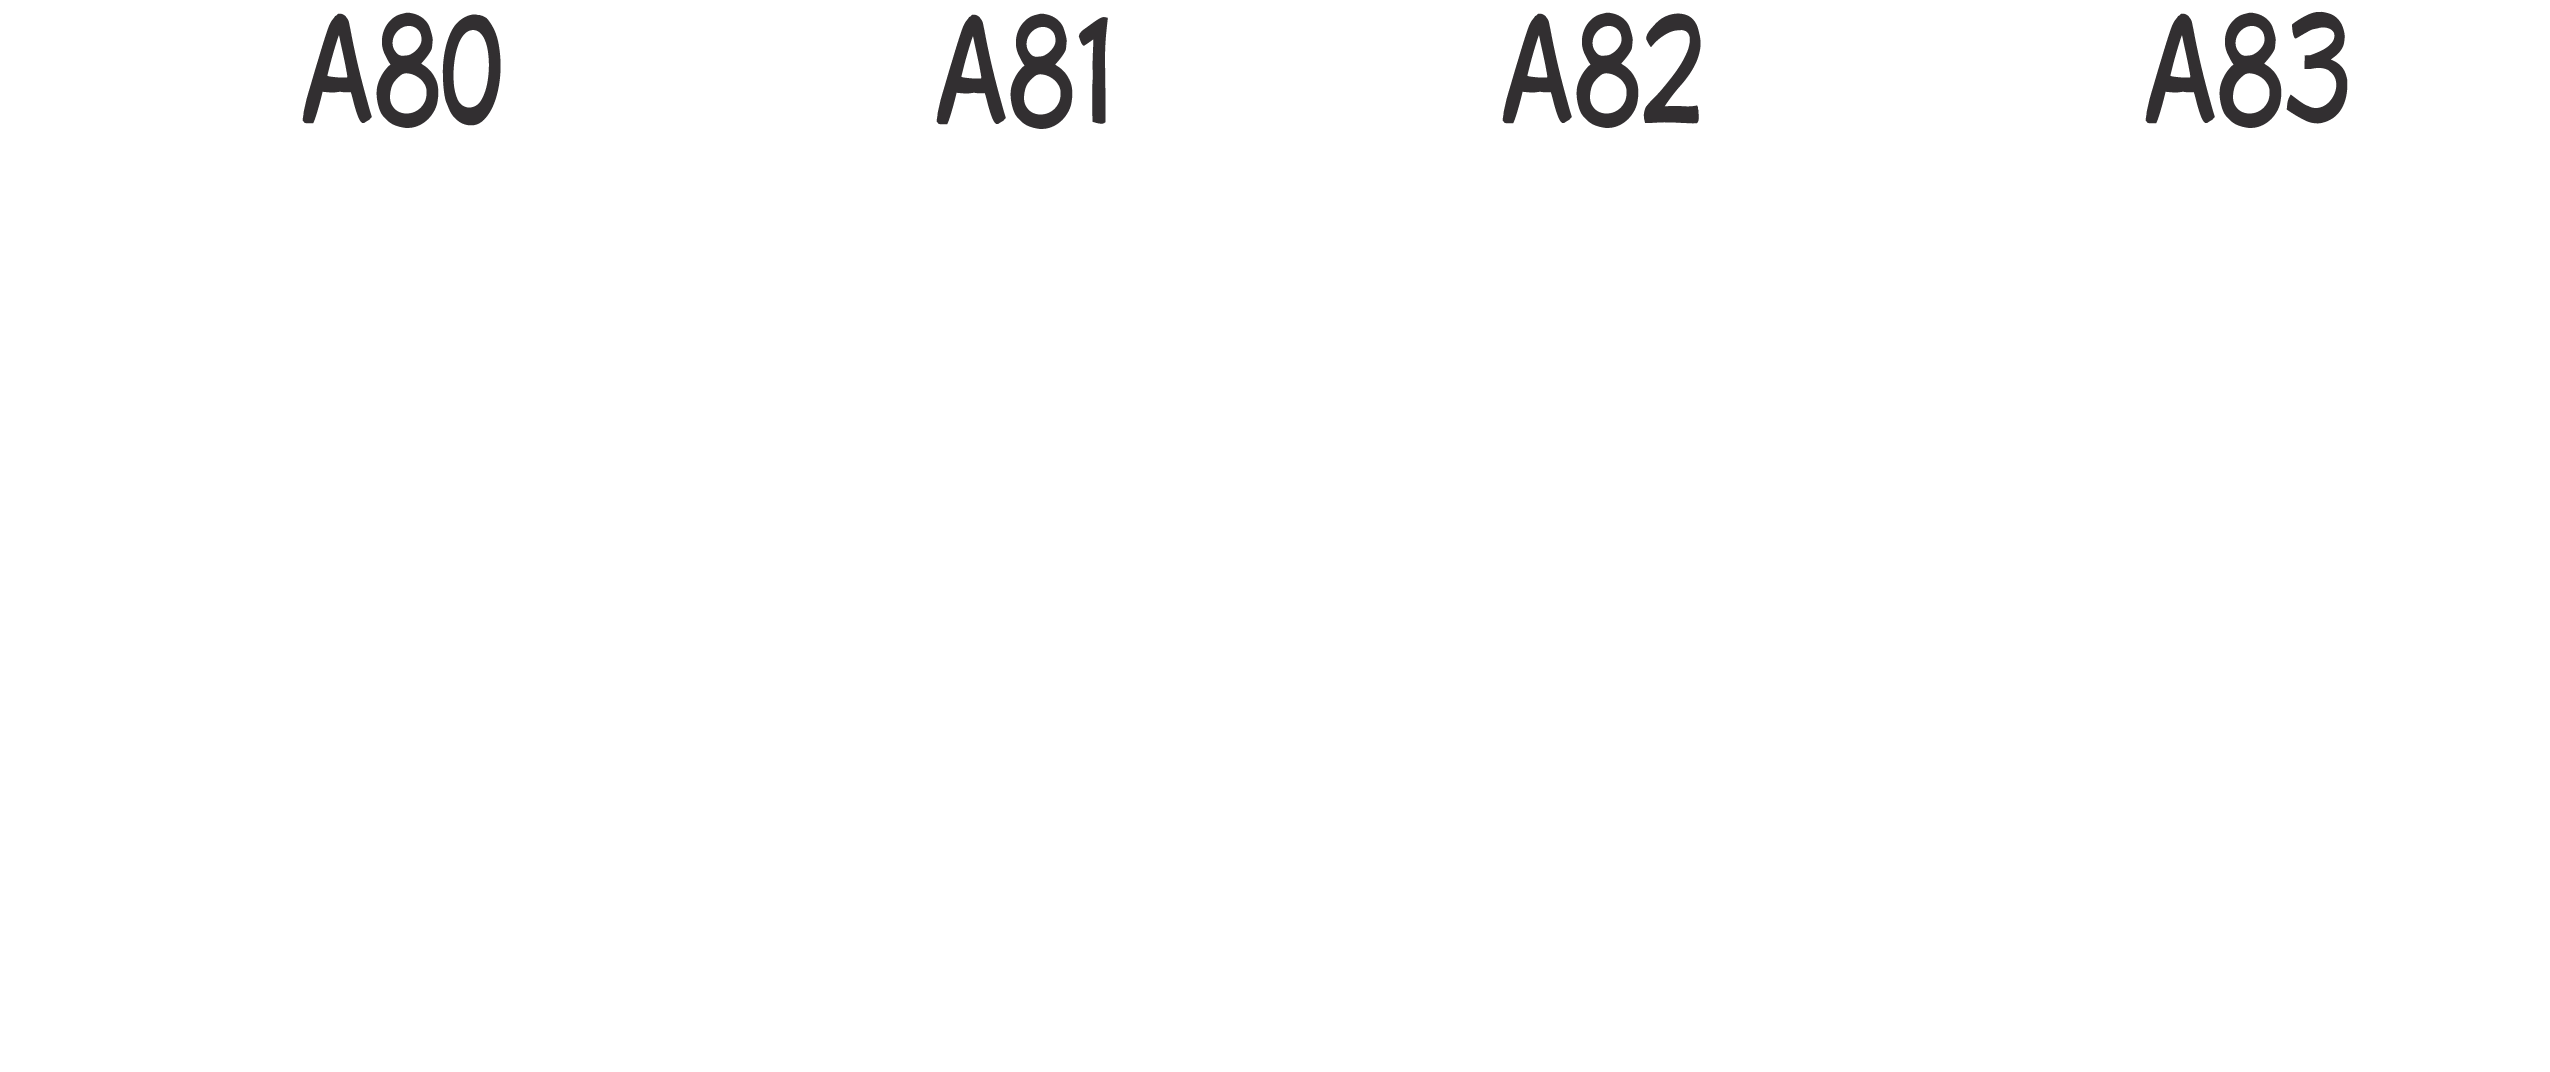
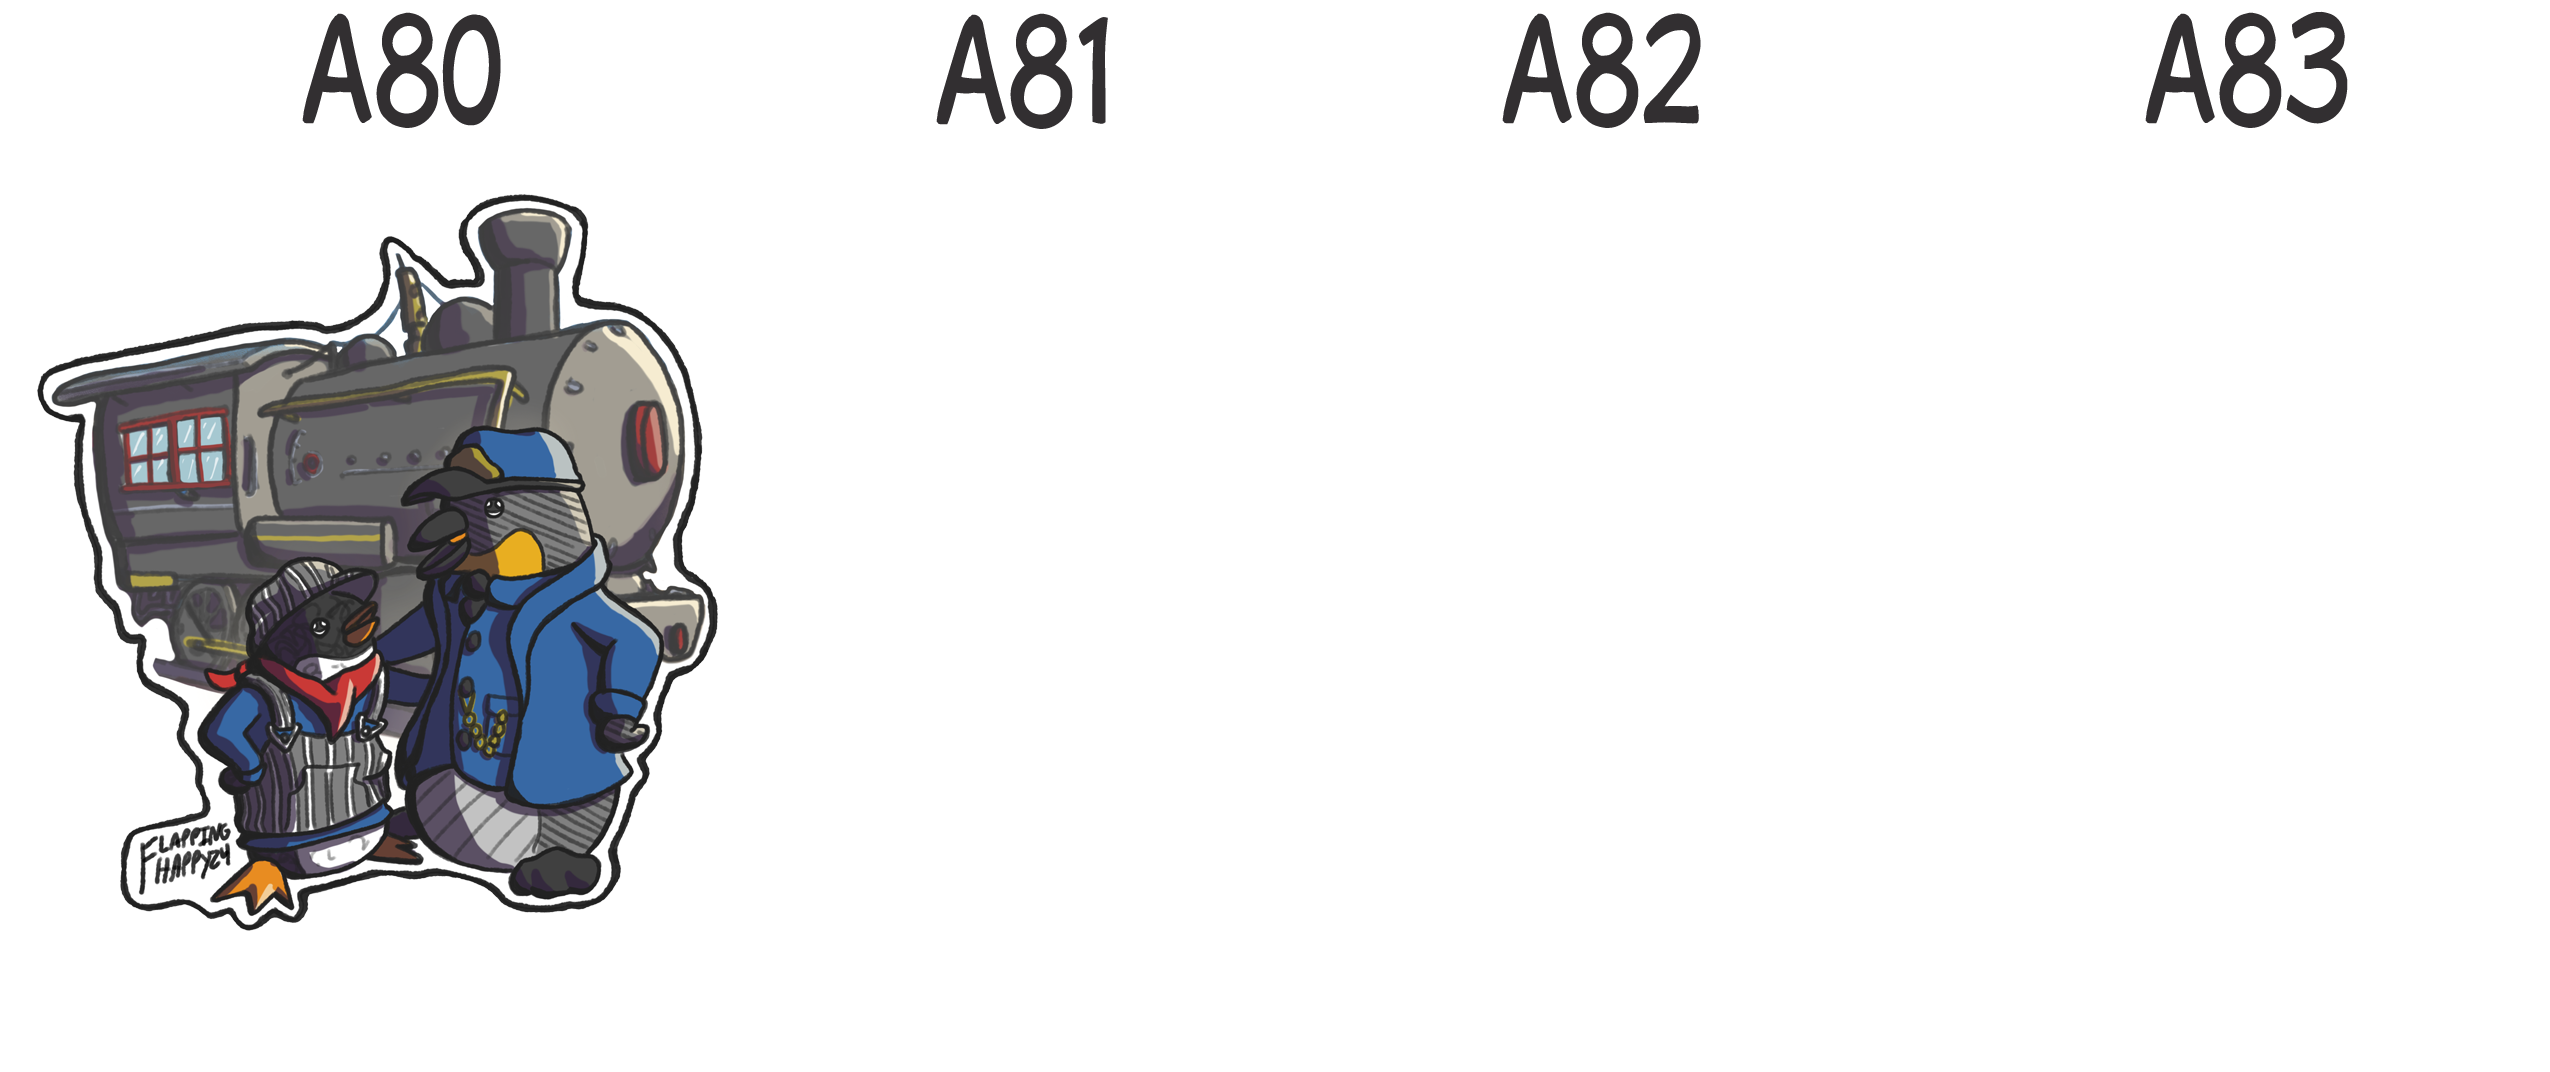
Add files via upload

Changed region(s): [[0.0, 0.1847, 0.2788, 0.8619]]

diff --git a/shop.html b/shop.html
@@ -161,6 +161,7 @@
 						<option value="A077">A77</option>
 						<option value="A078">A78</option>
 						<option value="A079">A79</option>
+						<option value="A080">A80</option>
 						
 					</select>
 					<br><br>
@@ -319,6 +320,7 @@
 						<option value="A077">A77</option>
 						<option value="A078">A78</option>
 						<option value="A079">A79</option>
+						<option value="A080">A80</option>
 						<option value="S001">S1</option>
 						<option value="S002">S2</option>
 						<option value="S003">S3</option>
@@ -458,6 +460,7 @@
 						<option value="A077">A77</option>
 						<option value="A078">A78</option>
 						<option value="A079">A79</option>
+						<option value="A080">A80</option>
 						
 					</select>
 					<br><br>
